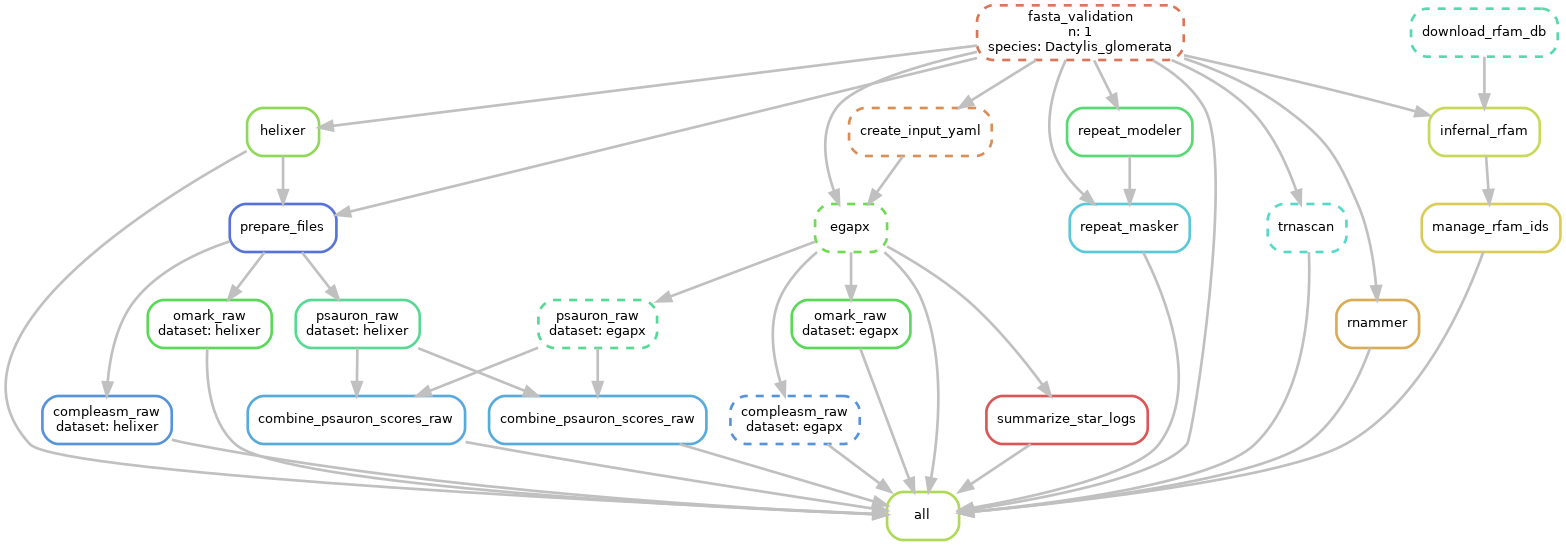
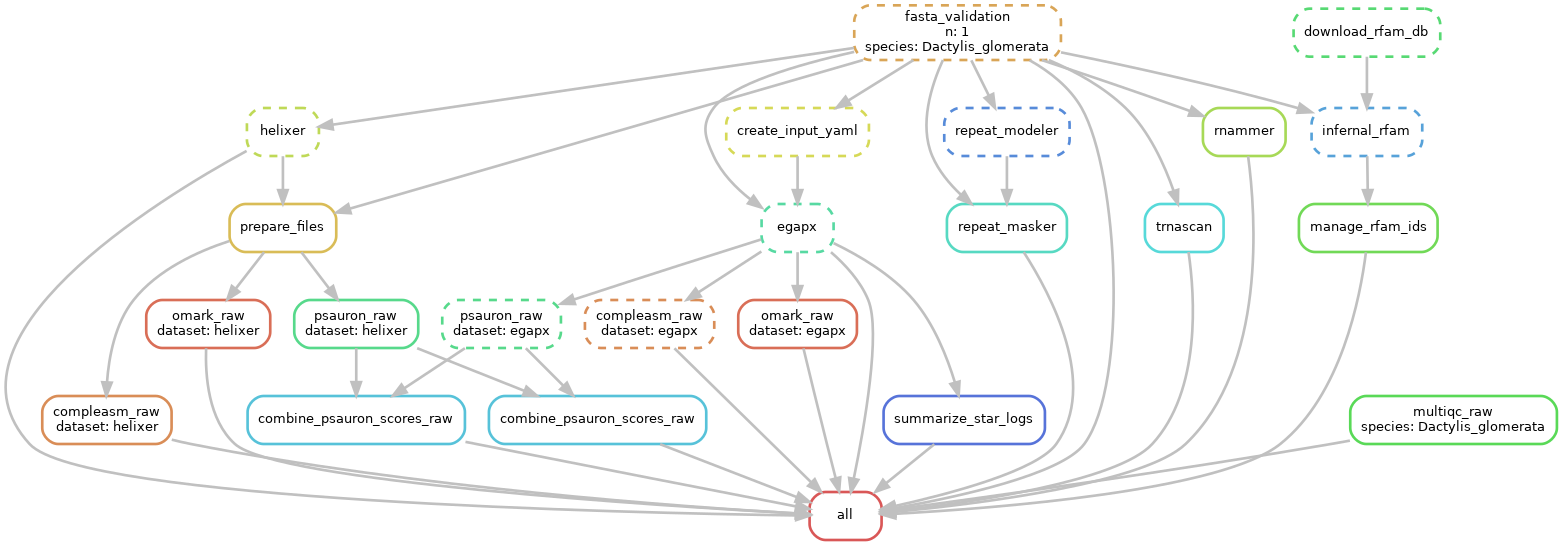
STAR summary, MultiQC bugs

diff --git a/README.md b/README.md
@@ -56,11 +56,11 @@ Stored in workflow/snakepit are subworkflows:
 	- repeat masking (RepeatModeler + RepeatMasker)
 	- ncRNA - Infernal, RNAmmer, tRNAscan
 2. quality_check_raw.smk
-	- RNA alignment summary
+	- RNA alignment summary -> MultiQC report
 	- Compleasm
 	- PSAURON (Annotation assessment tool)
 	- OMArk (Genome annotation evaluation)
-	- (Upcoming) MultiQC (Summarizing QC reports)
+	- MultiQC (Summarizing QC reports)
 
 ## Input Requirements
 Specified in workflow/config_path.yaml:
